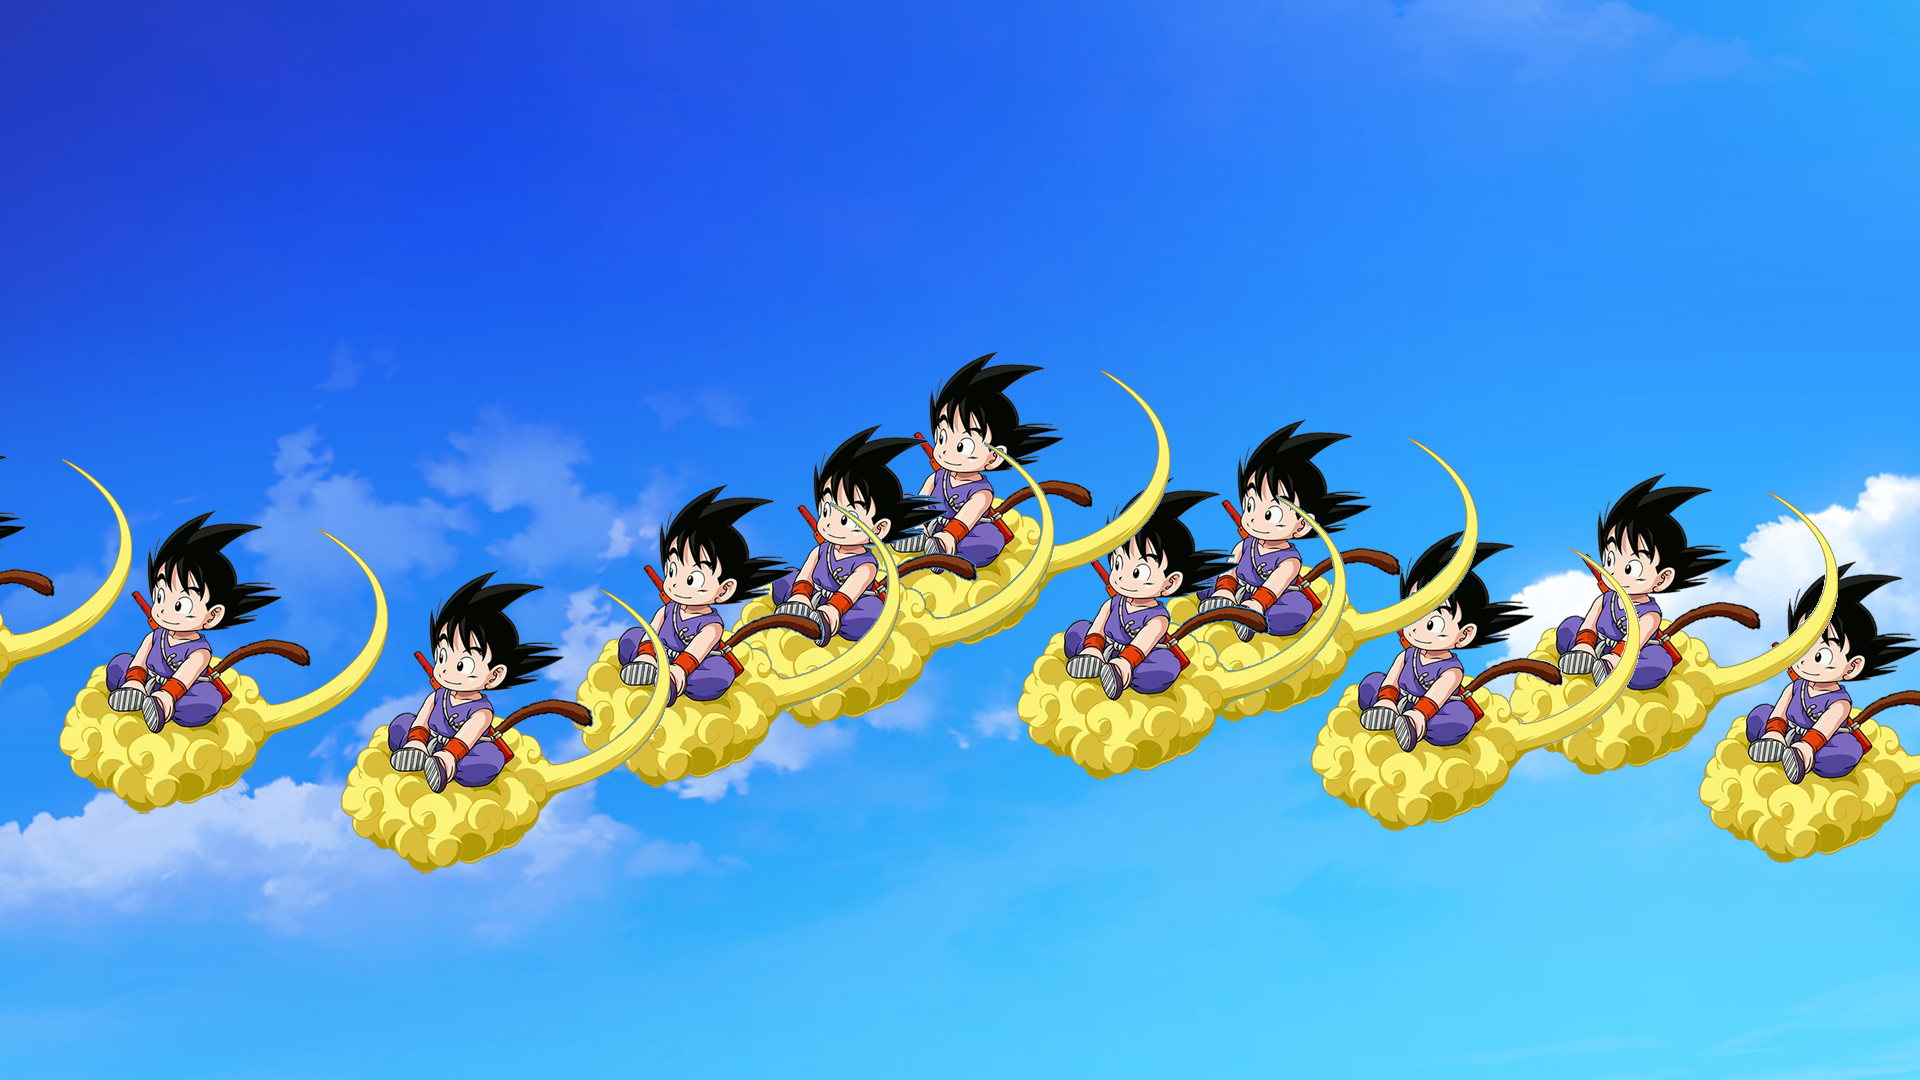
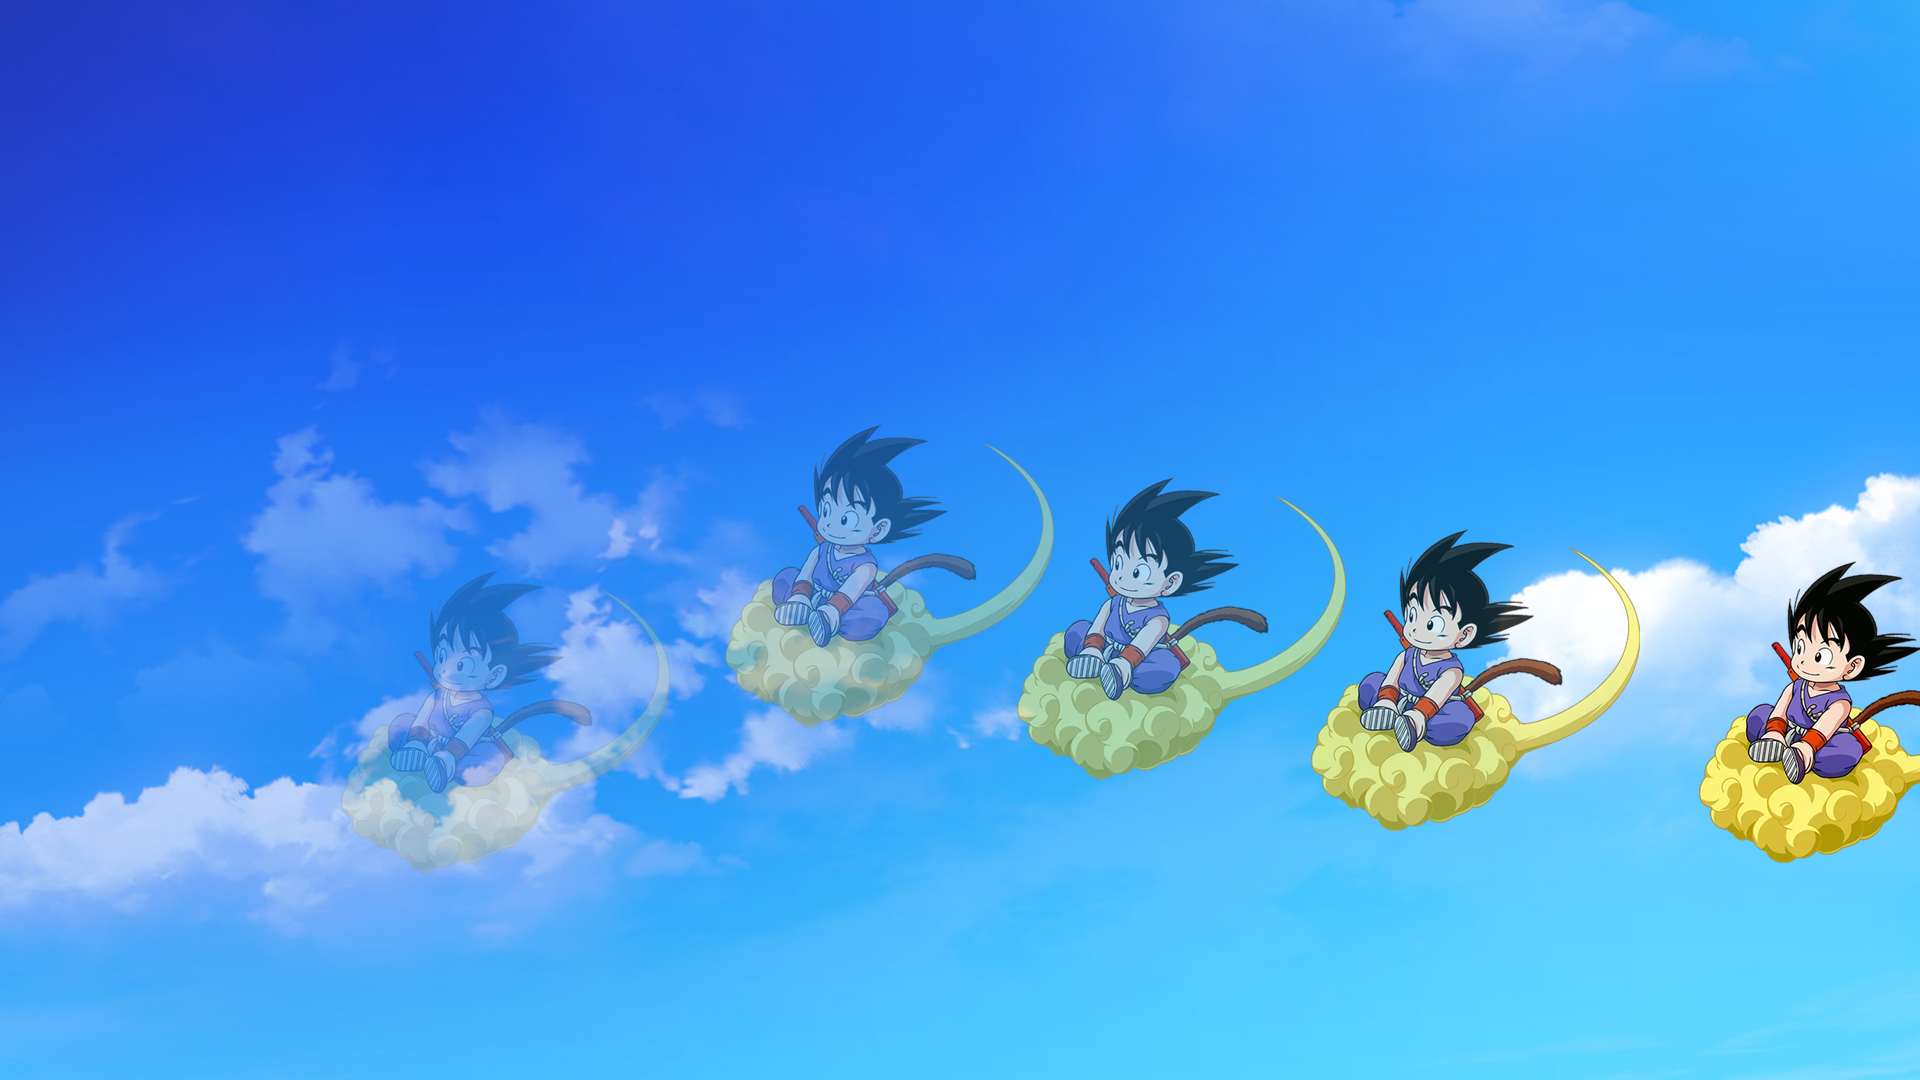
Arguments en ligne de commande

diff --git a/main.cpp b/main.cpp
@@ -6,14 +6,60 @@
 
 #include <vector>
 #include <bits/stdc++.h>
+#include <string>
+#include <sstream>
 
 using std::vector;
+using std::string;
 using namespace std;
 
-Image getBackground(vector<Image> images);
-Image setResult(Image background, int sizes, int saut);
+Image getBackground(vector<Image> images, bool verbose);
+Image setResult(Image background, vector<Image> masks, int sizes, int saut);
+vector<Image> normalize(vector<Image> images);
+vector<Image> getMasks(vector<Image> images, Image background, bool verbose);
+int getResultPixel(Image background, Image mask, int x, int y, int channel, string fading, float opacity);
 
-int main() {
+bool verbose = false;
+string fading = "normal";
+string mode = "normal";
+int saut = 1;
+
+int main(int argc, char *argv[]) {
+    if(argc != 5 && argc != 1)
+    {
+        printf("Veuillez renseigner les 3 parametres :\n");
+        printf("    verbose : true ou false\n");
+        printf("    fading : normal ou fading ou reverse\n");
+        printf("    mode : normal ou step ou distance\n");
+        printf("    mode value : valeur pour le mode choisi (Ex : mode value = 2 avec le mode step veut dire un pas de 2\n");
+        return 0;
+    }
+
+    vector<string> all_args;
+
+    if (argc > 1) {
+        all_args.assign(argv, argv + argc);
+    }
+
+
+    if(argc != 1)
+    {
+        std::stringstream ssVerbose(all_args[1]);
+        bool verbose;
+
+
+        if(!(ssVerbose >> std::boolalpha >> verbose)) {
+            printf("L'argument verbose doit avoir comme valeur true or false\n");
+        }
+
+        fading = all_args[2];
+        mode = all_args[3];
+        saut = stoi(all_args[4]);
+    }
+
+
+
+
     vector<Image> images = vector<Image>();
 
     Image im = Image("Image/image1.png");
@@ -41,19 +87,14 @@ int main() {
     images.push_back(im9);
     images.push_back(im10);
 
-    Image background = getBackground(images);
-    background.save("Result/backresult.png");
+    printf("Saut : %d\n", saut);
+    Image background = getBackground(images, verbose);
 
-    for(int i = 0; i < images.size(); i++) {
-        Image cop = images[i].mask(background);
-        string path = "Result/mask";
-        path.append(to_string(i));
-        path.append(".png");
-        cop.save(&path[0]);
-    }
+    vector<Image> masks = getMasks(images,background, verbose);
 
-    Image result = setResult(background, images.size(), 1);
+    Image result = setResult(background,masks, images.size(), saut);
     result.save("Result/resultat.png");
+
 
     // Tout les deux
     printf("Width : %d - Height : %d", im.getWidth(), im.getHeight());
@@ -68,43 +109,54 @@ int main() {
         }
 
     }
-    //im.crop(0,100,0,100);
-    im.save("image.jpg");*/
+    im.crop(0,100,0,100);
+    im.save("image.jpg");
+    printf("Width : %d - Height : %d", im.getWidth(), im.getHeight());*/
 
     stbi_image_free(im.getPixels());
 
     return 0;
 }
 
-Image setResult(Image background, int sizes, int saut) {
+Image setResult(Image background, vector<Image> masks, int sizes, int saut) {
     Image result = background;
-    vector<Image> masks = vector<Image>();
-    for(int i = 0; i < sizes; i++) {
-        string path = "Result/mask";
-        path.append(to_string(i));
-        path.append(".png");
-        masks.push_back(Image(&path[0]));
-    }
+    float opacity = 0;
+    float stepOpacity = 1.0f / (masks.size()/saut);
+
     // Liste background
     for(int i = 0; i < masks.size(); i+=saut) {
-        printf("test %d \n", i);
+        //printf("test %d \n", i);
         for(int x=0; x < result.getWidth(); x++) {
             for(int y = 0; y < result.getHeight(); y++) {
                 if(masks[i](x, y, RED) == 0 && masks[i](x, y, GREEN) == 0 && masks[i](x, y, BLUE) == 0 && masks[i](x, y, ALPHA) == 0) {
                 } else {
-                    result(x, y, RED) = masks[i](x, y, RED);
-                    result(x, y, GREEN) = masks[i](x, y, GREEN);
-                    result(x, y, BLUE) = masks[i](x, y, BLUE);
+                    result(x, y, RED) = getResultPixel(result, masks[i], x, y, RED, fading, opacity);
+                    result(x, y, GREEN) = getResultPixel(result, masks[i], x, y, GREEN, fading, opacity);
+                    result(x, y, BLUE) = getResultPixel(result, masks[i], x, y, BLUE, fading, opacity);
                     result(x, y, ALPHA) = masks[i](x, y, ALPHA);
                 }
             }
         }
+        opacity += stepOpacity;
     }
     // Check par rapport au saut quel mask faire, for par rapport a masks.size avec un i + = saut a chaque fin de boucle
     return result;
 }
 
-Image getBackground(vector<Image> images)
+int getResultPixel(Image result, Image mask, int x, int y, int channel, string fading, float opacity)
+{
+    if(fading == "fading")
+    {
+        return abs((int) result(x, y, channel) - (int)((result(x, y, channel) - mask(x, y, channel)) * opacity));
+    }
+    if(fading == "reverse")
+    {
+        return abs((int) mask(x, y, channel) - (int)((mask(x, y, channel) - result(x, y, channel)) * opacity));
+    }
+    return mask(x, y, channel);
+}
+
+Image getBackground(vector<Image> images, bool verbose)
 {
     Image im = Image(images[0].getHeight(), images[0].getWidth());
     printf("%d %d %d %d \n", im(0,0,RED), im(0,0,GREEN),im(0,0,BLUE), im(0,0,ALPHA));
@@ -136,5 +188,51 @@ Image getBackground(vector<Image> images)
             im(i,j,ALPHA) = 255;
         }
     }
+
+    if(verbose)
+    {
+        im.save("Result/backresult.png");
+    }
+
     return im;
+}
+
+vector<Image> normalize(vector<Image> images)
+{
+    int minW = images[0].getWidth();
+    int minH = images[0].getHeight();
+    int maxW = images[0].getWidth();
+    int maxH = images[0].getHeight();
+
+    for(int i=1; i<images.size(); i++){
+        minW = minW > images[i].getWidth() ? images[i].getWidth() : minW;
+        minH = minH > images[i].getHeight() ? images[i].getHeight() : minH;
+        maxW = maxW < images[i].getWidth() ? images[i].getWidth() : maxW;
+        maxH = maxH < images[i].getHeight() ? images[i].getHeight() : maxH;
+    }
+
+    if(!(minW == maxW && minH == maxH)){
+        for(int i=0; i<images.size(); i++){
+            images[i].crop(0,minH, 0, minW);
+        }
+    }
+
+    return images;
+}
+
+vector<Image> getMasks(vector<Image> images, Image background,  bool verbose)
+{
+    vector<Image> masks = vector<Image>();
+    for(int i = 0; i < images.size(); i++) {
+        Image cop = images[i].mask(background);
+        if(verbose)
+        {
+            string path = "Result/mask";
+            path.append(to_string(i));
+            path.append(".png");
+            cop.save(&path[0]);
+        }
+        masks.push_back(cop);
+    }
+    return masks;
 }

diff --git a/Image.cpp b/Image.cpp
@@ -8,15 +8,11 @@ using namespace std;
 Image::Image(char* filename)
 {
     this->pixels = stbi_load(filename, &this->width, &this->height, &this->bpp, 4);
-    this->offsetX = 0;
-    this->offsetY = 0;
 }
 
 Image::Image(int height, int width)
 {
     this->pixels = (uint8_t*) malloc(width*height*4);
-    this->offsetX = 0;
-    this->offsetY = 0;
     this->width = width;
     this->height = height;
     /*for(int i=0; i < this->getWidth(); i++)
@@ -75,7 +71,7 @@ uint8_t* Image::getPixels() const
 }*/
 
 uint8_t& Image::operator() (int x, int y, int color){
-    return this->pixels[( (x + offsetX) + (offsetY + y) * this->width) * 4 + color];
+    return this->pixels[( x + y * this->width) * 4 + color];
 }
 
 void const Image::save(char* filename) const
@@ -88,8 +84,20 @@ void Image::crop(int top, int bottom, int left, int right)
     int tempWidth = right - left;
     int tempHeight = bottom - top;
 
-    this->offsetX = left;
-    this->offsetY = top;
+    uint8_t* tempList = (uint8_t*) malloc(tempHeight*tempWidth*4);
+
+    for(int i=0; i < tempWidth; i++)
+    {
+        for(int j=0; j < tempHeight; j++)
+        {
+            tempList[( i + j * tempWidth) * 4 + RED] = this->pixels[( (i + left) + (top + j) * this->width) * 4 + RED];
+            tempList[( i + j * tempWidth) * 4 + GREEN] = this->pixels[( (i + left) + (top + j) * this->width) * 4 + GREEN];
+            tempList[( i + j * tempWidth) * 4 + BLUE] = this->pixels[( (i + left) + (top + j) * this->width) * 4 + BLUE];
+            tempList[( i + j * tempWidth) * 4 + ALPHA] = this->pixels[( (i + left) + (top + j) * this->width) * 4 + ALPHA];
+        }
+    }
+
+    this->pixels = tempList;
 
     this->width = tempWidth;
     this->height = tempHeight;
@@ -101,16 +109,16 @@ Image Image::mask(Image background)
 
     for(int i=0; i < cop.getWidth(); i++) {
         for(int j=0; j < cop.getHeight(); j++) {
-            if(this->pixels[( (i + offsetX) + (offsetY + j) * this->width) * 4 + RED] == background(i,j,RED) && this->pixels[( (i + offsetX) + (offsetY + j) * this->width) * 4 + GREEN] == background(i,j,GREEN) && this->pixels[( (i + offsetX) + (offsetY + j) * this->width) * 4 + BLUE] == background(i,j,BLUE) && this->pixels[( (i + offsetX) + (offsetY + j) * this->width) * 4 + ALPHA] == background(i,j,ALPHA)) {
+            if(this->pixels[( i + j * this->width) * 4 + RED] == background(i,j,RED) && this->pixels[( i + j * this->width) * 4 + GREEN] == background(i,j,GREEN) && this->pixels[( i + j * this->width) * 4 + BLUE] == background(i,j,BLUE) && this->pixels[( i + j * this->width) * 4 + ALPHA] == background(i,j,ALPHA)) {
                 cop(i,j,ALPHA) = 0;
                 cop(i,j,RED) = 0;
                 cop(i,j,GREEN) = 0;
                 cop(i,j,BLUE) = 0;
             } else {
-                cop(i,j,ALPHA) = this->pixels[( (i + offsetX) + (offsetY + j) * this->width) * 4 + ALPHA];
-                cop(i,j,RED) = this->pixels[( (i + offsetX) + (offsetY + j) * this->width) * 4 + RED];
-                cop(i,j,GREEN) = this->pixels[( (i + offsetX) + (offsetY + j) * this->width) * 4 + GREEN];
-                cop(i,j,BLUE) = this->pixels[( (i + offsetX) + (offsetY + j) * this->width) * 4 + BLUE];
+                cop(i,j,ALPHA) = this->pixels[( i + j * this->width) * 4 + ALPHA];
+                cop(i,j,RED) = this->pixels[( i + j * this->width) * 4 + RED];
+                cop(i,j,GREEN) = this->pixels[( i + j * this->width) * 4 + GREEN];
+                cop(i,j,BLUE) = this->pixels[( i + j * this->width) * 4 + BLUE];
             }
         }
     }

diff --git a/Image.h b/Image.h
@@ -34,7 +34,6 @@ class Image
 
     private:
         int width, height, bpp;
-        int offsetX, offsetY;
         uint8_t* pixels;
 };
 
